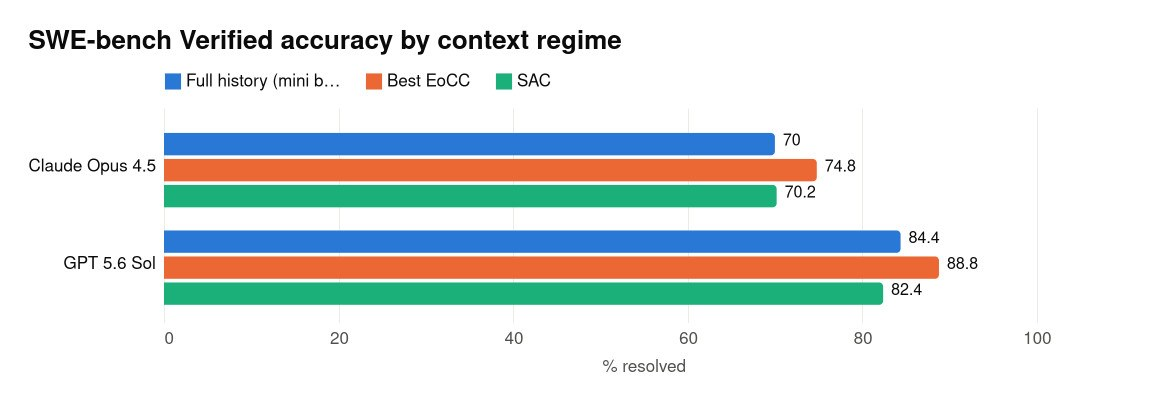
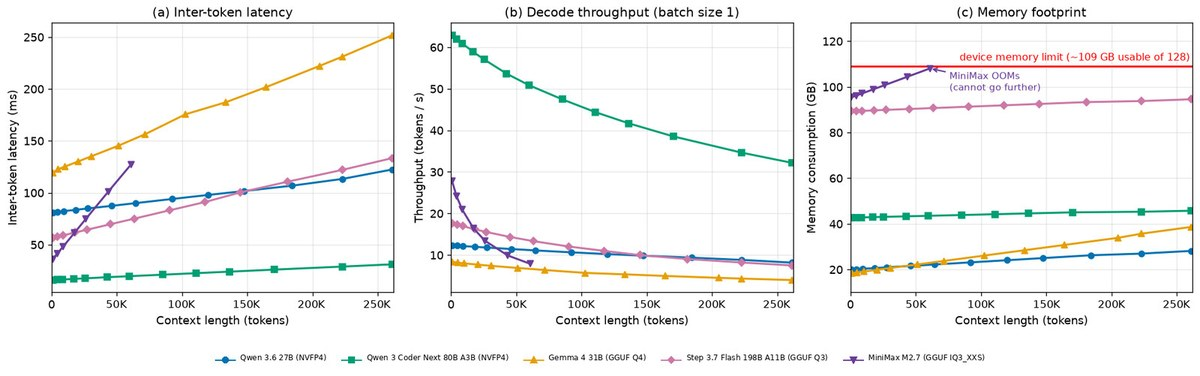
Blog: update the story list

diff --git a/blog.html b/blog.html
@@ -59,7 +59,7 @@
 									<!-- prism:blog -->
 									<div class="posts blog-posts">
 										<article id="claude-opus-4">
-											<a href="https://medium.com/@sajjadpakdamansavoji/claude-opus-4-5-and-gpt-5-6-sol-stayed-near-baseline-on-short-contexts-so-why-pay-for-256k-41f69cdbe3b3" class="image"><img src="images/blog/claude-opus-4.jpg" alt="On SWE-bench Verified, best EoCC beats the full-history baseline for both models, while SAC roughly matches it for Opus 4.5 and trails by 2.0 points for GPT 5.6 Sol. Diagram: made for this article from the arXiv paper &#x27;You don&#x27;t need long context&#x27; (Table 2)." loading="lazy" /></a>
+											<a href="https://medium.com/@sajjadpakdamansavoji/claude-opus-4-5-and-gpt-5-6-sol-stayed-near-baseline-on-short-contexts-so-why-pay-for-256k-41f69cdbe3b3" class="image"><img src="images/blog/claude-opus-4.jpg" alt="Token latency, throughput and memory footprint of several open-source coding models on an NVIDIA DGX Spark, plotted against input context length. Later tokens take about 2x longer for several models. Figure 2 from arXiv 2611.05306." loading="lazy" /></a>
 											<p class="blog-meta">November 5, 2026 · Deep dive</p>
 											<h3>Claude Opus 4.5 and GPT 5.6 Sol Stayed Near Baseline on Short Contexts, So Why Pay for 256K?</h3>
 											<p>A new arXiv paper argues that long-horizon and long-input agent tasks can be done with short contexts. It uses frequent compaction and selective reading, and reports little or no accuracy loss for Claude Opus 4.5 and GPT 5.6 Sol across 13 benchmarks. Serving a 16K window instead of 256K decodes up to 7x more tokens per second for Qwen 3 Coder Next, which makes handoff-state design the key engineering question for agent builders.</p>
